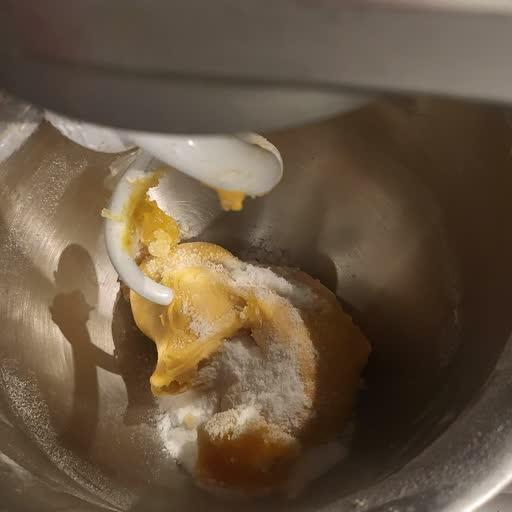
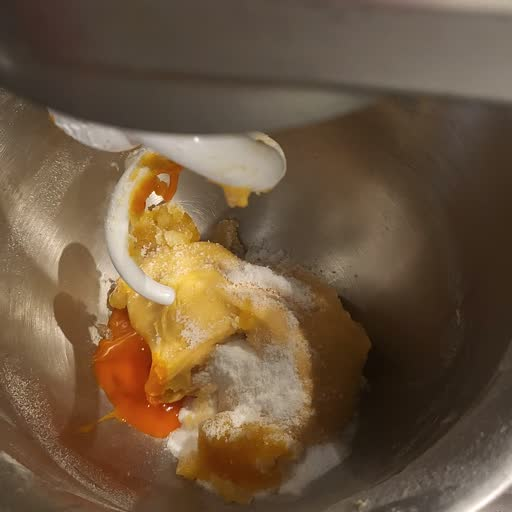
Confirm dough state by stopping the mixer, using stopped reference frames

diff --git a/app/main.js b/app/main.js
@@ -103,9 +103,15 @@ function finishLine(temp) {
   return el("p", { className: "muted", textContent: `捏ね上げの目標 ${target}℃との差：${sign}${diff}℃` });
 }
 
-const STATUS_LABEL = { met: "基準に届いています", not_yet: "まだです", unclear: "判断できません" };
+const STOP_DELAY_MS = 5000;
 
-async function runCheck() {
+function verdictLabel({ status, stopped }) {
+  if (status === "not_yet") return "まだです";
+  if (status === "met") return stopped ? "基準に届いています" : "そろそろです。止めて確かめてください";
+  return stopped ? "判断できません" : "回転中は見えません。止めて確かめてください";
+}
+
+async function runCheck({ stopped = false } = {}) {
   if (vision.busy || !session || !isCameraOn()) return;
   const step = currentStep(process, session);
   const criteria = sightCriteria(step);
@@ -116,12 +122,13 @@ async function runCheck() {
   vision.message = "確認しています…";
   render();
   try {
-    const result = await checkCriterion(video, step.title, criterion);
+    const result = { ...(await checkCriterion(video, step.title, criterion, stopped)), stopped };
     vision.message = "";
     if (session && currentStep(process, session).id === step.id) {
       const before = vision.results.get(criterion.text)?.status;
       vision.results.set(criterion.text, result);
-      if (result.status === "met" && before !== "met") speak(result.note);
+      if (stopped) speak(`${verdictLabel(result)}。${result.note}`);
+      else if (result.status === "met" && before !== "met") speak(verdictLabel(result));
     }
   } catch (error) {
     vision.message = error.status === 401 ? "API キーを確認してください" : `確認できませんでした：${error.message}`;
@@ -141,12 +148,25 @@ async function toggleCamera() {
   }
   try {
     await startCamera(video);
-    vision.timer = setInterval(runCheck, CHECK_INTERVAL_MS);
+    vision.timer = setInterval(() => runCheck(), CHECK_INTERVAL_MS);
     runCheck();
   } catch (error) {
     vision.message = `カメラを使えません：${error.message}`;
     render();
   }
+}
+
+async function stopAndCheck() {
+  if (vision.busy) return;
+  vision.busy = true;
+  vision.message = "ミキサーを止めて、生地が見えるようにしてください";
+  render();
+  speak(vision.message);
+  await new Promise((resolve) => {
+    setTimeout(resolve, STOP_DELAY_MS);
+  });
+  vision.busy = false;
+  await runCheck({ stopped: true });
 }
 
 function keyForm() {
@@ -170,18 +190,18 @@ function cameraPanel(step) {
   const on = isCameraOn();
   return el("section", { className: "panel" },
     el("h2", { textContent: "カメラで確かめる" }),
-    el("p", { className: "muted", textContent: "結果は参考です。回転中の映像では、艶や滑らかさを見誤ることがあります。最後は手と目で確かめてください。" }),
+    el("p", { className: "muted", textContent: "回転中の確認は目安です。艶や滑らかさは、ミキサーを止めて確かめます。最後は手と目で判断してください。" }),
     on ? video : null,
     vision.message ? el("p", { className: "muted", textContent: vision.message }) : null,
     el("ul", { className: "criteria" }, ...criteria.map((c) => {
       const result = vision.results.get(c.text);
       return el("li", {},
         el("p", { textContent: c.visual_question }),
-        result ? el("p", { className: `verdict ${result.status}`, textContent: `${STATUS_LABEL[result.status]}：${result.note}` }) : null);
+        result ? el("p", { className: `verdict ${result.status}`, textContent: `${verdictLabel(result)}：${result.note}` }) : null);
     })),
     el("div", { className: "temp-row camera-actions" },
       el("button", { textContent: on ? "カメラを止める" : "カメラを開始", onclick: toggleCamera }),
-      on ? el("button", { textContent: "今すぐ確認", disabled: vision.busy, onclick: runCheck }) : null,
+      on ? el("button", { className: "primary", textContent: "止めて確認", disabled: vision.busy, onclick: stopAndCheck }) : null,
       on ? null : el("button", { textContent: "キーを消す", onclick: () => { clearKey(); render(); } })),
   );
 }

diff --git a/app/camera.js b/app/camera.js
@@ -102,12 +102,12 @@ async function loadReference(reference) {
   return loaded;
 }
 
-export async function checkCriterion(video, stepTitle, criterion) {
+export async function checkCriterion(video, stepTitle, criterion, stopped) {
   const client = new Anthropic({ apiKey: loadKey(), dangerouslyAllowBrowser: true });
   const [currentImages, references] = await Promise.all([
     captureSharpest(video),
     Promise.all((criterion.reference_frames ?? []).map(loadReference)),
   ]);
-  const request = buildVisionRequest({ stepTitle, criterion, references, currentImages });
+  const request = buildVisionRequest({ stepTitle, criterion, references, currentImages, stopped });
   return readVisionResponse(await client.beta.messages.create(request));
 }

diff --git a/analyzer/find_stops.py b/analyzer/find_stops.py
@@ -1,0 +1,65 @@
+"""コマの動きと鮮明さから、ミキサーが止まっている区間を見つける。
+
+止まっている間は連続するコマの差が小さく、映像がぶれない。
+使い方: python find_stops.py <文字起こしの親フォルダ>
+結果は各仕込みのフォルダの stops.json に書く。
+"""
+import json
+import sys
+from pathlib import Path
+
+import numpy as np
+from PIL import Image
+
+from build_refs import sharpness
+
+FRAME_INTERVAL_SEC = 5
+MOTION_THRESHOLD = 6.0
+SHARP_RATIO = 1.5
+MERGE_GAP_FRAMES = 1
+
+
+def load_gray(path: Path) -> np.ndarray:
+    return np.asarray(Image.open(path).convert("L").resize((128, 128)), dtype=np.float32)
+
+
+def find_stops(frames_dir: Path) -> list[dict]:
+    paths = sorted(frames_dir.glob("*.jpg"))
+    grays = [load_gray(path) for path in paths]
+    motion = [float(np.abs(a - b).mean()) for a, b in zip(grays, grays[1:])] + [99.0]
+    sharp = [sharpness(path) for path in paths]
+    baseline = float(np.median(sharp))
+    still = [m < MOTION_THRESHOLD and s > baseline * SHARP_RATIO for m, s in zip(motion, sharp)]
+
+    stops: list[dict] = []
+    for index, is_still in enumerate(still):
+        if not is_still:
+            continue
+        if stops and index - stops[-1]["last"] <= MERGE_GAP_FRAMES + 1:
+            stops[-1]["last"] = index
+        else:
+            stops.append({"first": index, "last": index})
+    result = []
+    for stop in stops:
+        best = max(range(stop["first"], stop["last"] + 1), key=lambda i: sharp[i])
+        result.append({
+            "start_sec": stop["first"] * FRAME_INTERVAL_SEC,
+            "end_sec": stop["last"] * FRAME_INTERVAL_SEC,
+            "best_frame": paths[best].name,
+            "sharpness": round(sharp[best]),
+        })
+    return result
+
+
+def main() -> None:
+    for folder in sorted(p for p in Path(sys.argv[1]).iterdir() if p.is_dir()):
+        stops = find_stops(folder / "frames")
+        (folder / "stops.json").write_text(json.dumps(stops, ensure_ascii=False, indent=2), encoding="utf-8")
+        print(f"{folder.name}: {len(stops)} 区間")
+        for stop in stops:
+            start, end = stop["start_sec"], stop["end_sec"]
+            print(f"  {start // 60:02d}:{start % 60:02d}-{end // 60:02d}:{end % 60:02d} {stop['best_frame']} 鮮明さ {stop['sharpness']}")
+
+
+if __name__ == "__main__":
+    main()

diff --git a/analyzer/build_refs.py b/analyzer/build_refs.py
@@ -1,6 +1,7 @@
 """見て確認する基準に、語りの時点の映像を参考として付ける。
 
-回転中の映像はぶれるので、発言の前後から最も鮮明なコマを選ぶ。
+発言の近くでミキサーが止まっていれば、そのコマを使う（find_stops.py の結果）。
+なければ、発言の前後から最も鮮明なコマを選ぶ。
 使い方: python build_refs.py <工程データ> <文字起こしの親フォルダ> --hold-out run4
 --hold-out の仕込みは精度の検証に使うので、参考映像に含めない。
 """
@@ -14,6 +15,7 @@ from PIL import Image
 FRAME_INTERVAL_SEC = 5
 SEARCH_FRAMES = 2
 MAX_REFERENCES = 2
+STOP_SEARCH_SEC = 90
 
 
 def sharpness(path: Path) -> float:
@@ -29,6 +31,18 @@ def sharpest_frame(frames: Path, at_sec: float) -> Path | None:
     candidates = [frames / f"{n:05d}.jpg" for n in range(center - SEARCH_FRAMES, center + SEARCH_FRAMES + 1)]
     existing = [path for path in candidates if path.exists()]
     return max(existing, key=sharpness) if existing else None
+
+
+def stopped_frame(folder: Path, at_sec: float) -> Path | None:
+    path = folder / "stops.json"
+    if not path.exists():
+        return None
+    stops = json.loads(path.read_text(encoding="utf-8"))
+    near = [s for s in stops if abs((s["start_sec"] + s["end_sec"]) / 2 - at_sec) <= STOP_SEARCH_SEC]
+    if not near:
+        return None
+    best = min(near, key=lambda s: abs((s["start_sec"] + s["end_sec"]) / 2 - at_sec))
+    return folder / "frames" / best["best_frame"]
 
 
 def choose_evidence(evidence: list[dict], hold_out: set[str]) -> list[dict]:
@@ -64,7 +78,8 @@ def main() -> None:
                 continue
             references = []
             for item in choose_evidence(criterion["evidence"], set(args.hold_out)):
-                frame = sharpest_frame(runs[item["run"]] / "frames", item["at_sec"])
+                folder = runs[item["run"]]
+                frame = stopped_frame(folder, item["at_sec"]) or sharpest_frame(folder / "frames", item["at_sec"])
                 if frame is None:
                     continue
                 name = f"{item['run']}_{round(item['at_sec'])}.jpg"

diff --git a/README.md b/README.md
@@ -69,7 +69,8 @@ python analyzer/extract.py <動画フォルダ> <作業フォルダ>
 python analyzer/transcribe.py <作業フォルダ> --name transcript_loose
 python analyzer/build_process.py <作業フォルダ> data/processed/versions/v1.json --runs run1 run2 run3
 python analyzer/build_process.py <作業フォルダ> data/processed/versions/v2.json --base data/processed/versions/v1.json --runs run4
-python analyzer/build_refs.py data/processed/versions/v2.json <作業フォルダ> --hold-out run4
+python analyzer/find_stops.py <作業フォルダ>
+python analyzer/build_refs.py data/processed/process.json <作業フォルダ> --hold-out run4
 ```
 
 検査とテストは次のとおりです。
@@ -100,13 +101,13 @@ node --test app/guide.test.js
 - 語りからの工程の採集（`analyzer/build_process.py`）：Claude Opus 5.5 の構造化出力で、文字起こしを `shared/process.schema.json` の形にします。語られていない内容を足さないよう指示し、根拠の発言が文字起こしに実在するかをプログラムで検査します。検査に通らないデータは出力しません
 - 差分更新：既存の工程データに新しい仕込みの語りを反映します。v1（3回分）から v2（4回分）で判断が増えます
 - 職人の知見の反映：誤認識の修正（`analyzer/corrections.json`）と全体の決まり（`analyzer/craft_rules.json`）を入力にします。AI が「12分」と読んだ語りは、本人の確認で「十二分に」と直しました
-- 映像の確認（`app/vision.js`）：語りの時点の映像と職人の言葉を参考に、今の工程の基準に届いたかだけを Claude に問います。工程の進行は自動では行いません
+- 映像の確認（`app/vision.js`）：語りの時点の映像と職人の言葉を参考に、今の工程の基準に届いたかだけを Claude に問います。職人が実際に行うように、回転中は予告にとどめ、ミキサーを止めて確かめて判断します。工程の進行は自動では行いません
 
 **開発の中で**
 
 - Claude Code で、設計、実装、テスト、ブラウザでの画面確認までを進めました
 - `claude-api` スキルで、モデル、構造化出力、画像入力の最新の使い方を確認しました
-- 映像の確認は、参考映像に使っていない4回目の映像で検証しました（`analyzer/eval_vision.mjs`）。8場面のうち一致4、判断不能3、誤り1で、回転中の艶の判定が苦手と分かったため、結果を参考扱いとして画面に明記しています
+- 映像の確認は、参考映像に使っていない4回目の映像で検証しました（`analyzer/eval_vision.mjs`）。回転中の8場面は一致4、判断不能3、誤り1で、動きブレにより艶の判定が苦手と分かりました。そこで職人の確認の仕方に合わせ、動画から止まった場面を検出して（`analyzer/find_stops.py`）参考映像に使い、止めて確かめる流れに変えました。止まった7場面は一致4、判断不能1、「まだ」と慎重に答えた誤りが2で、「届いた」と誤る例はありませんでした。正解は語りの時刻から付けた仮のもので、場面数も少ないため、精度の保証ではありません
 
 ## ライセンス
 
